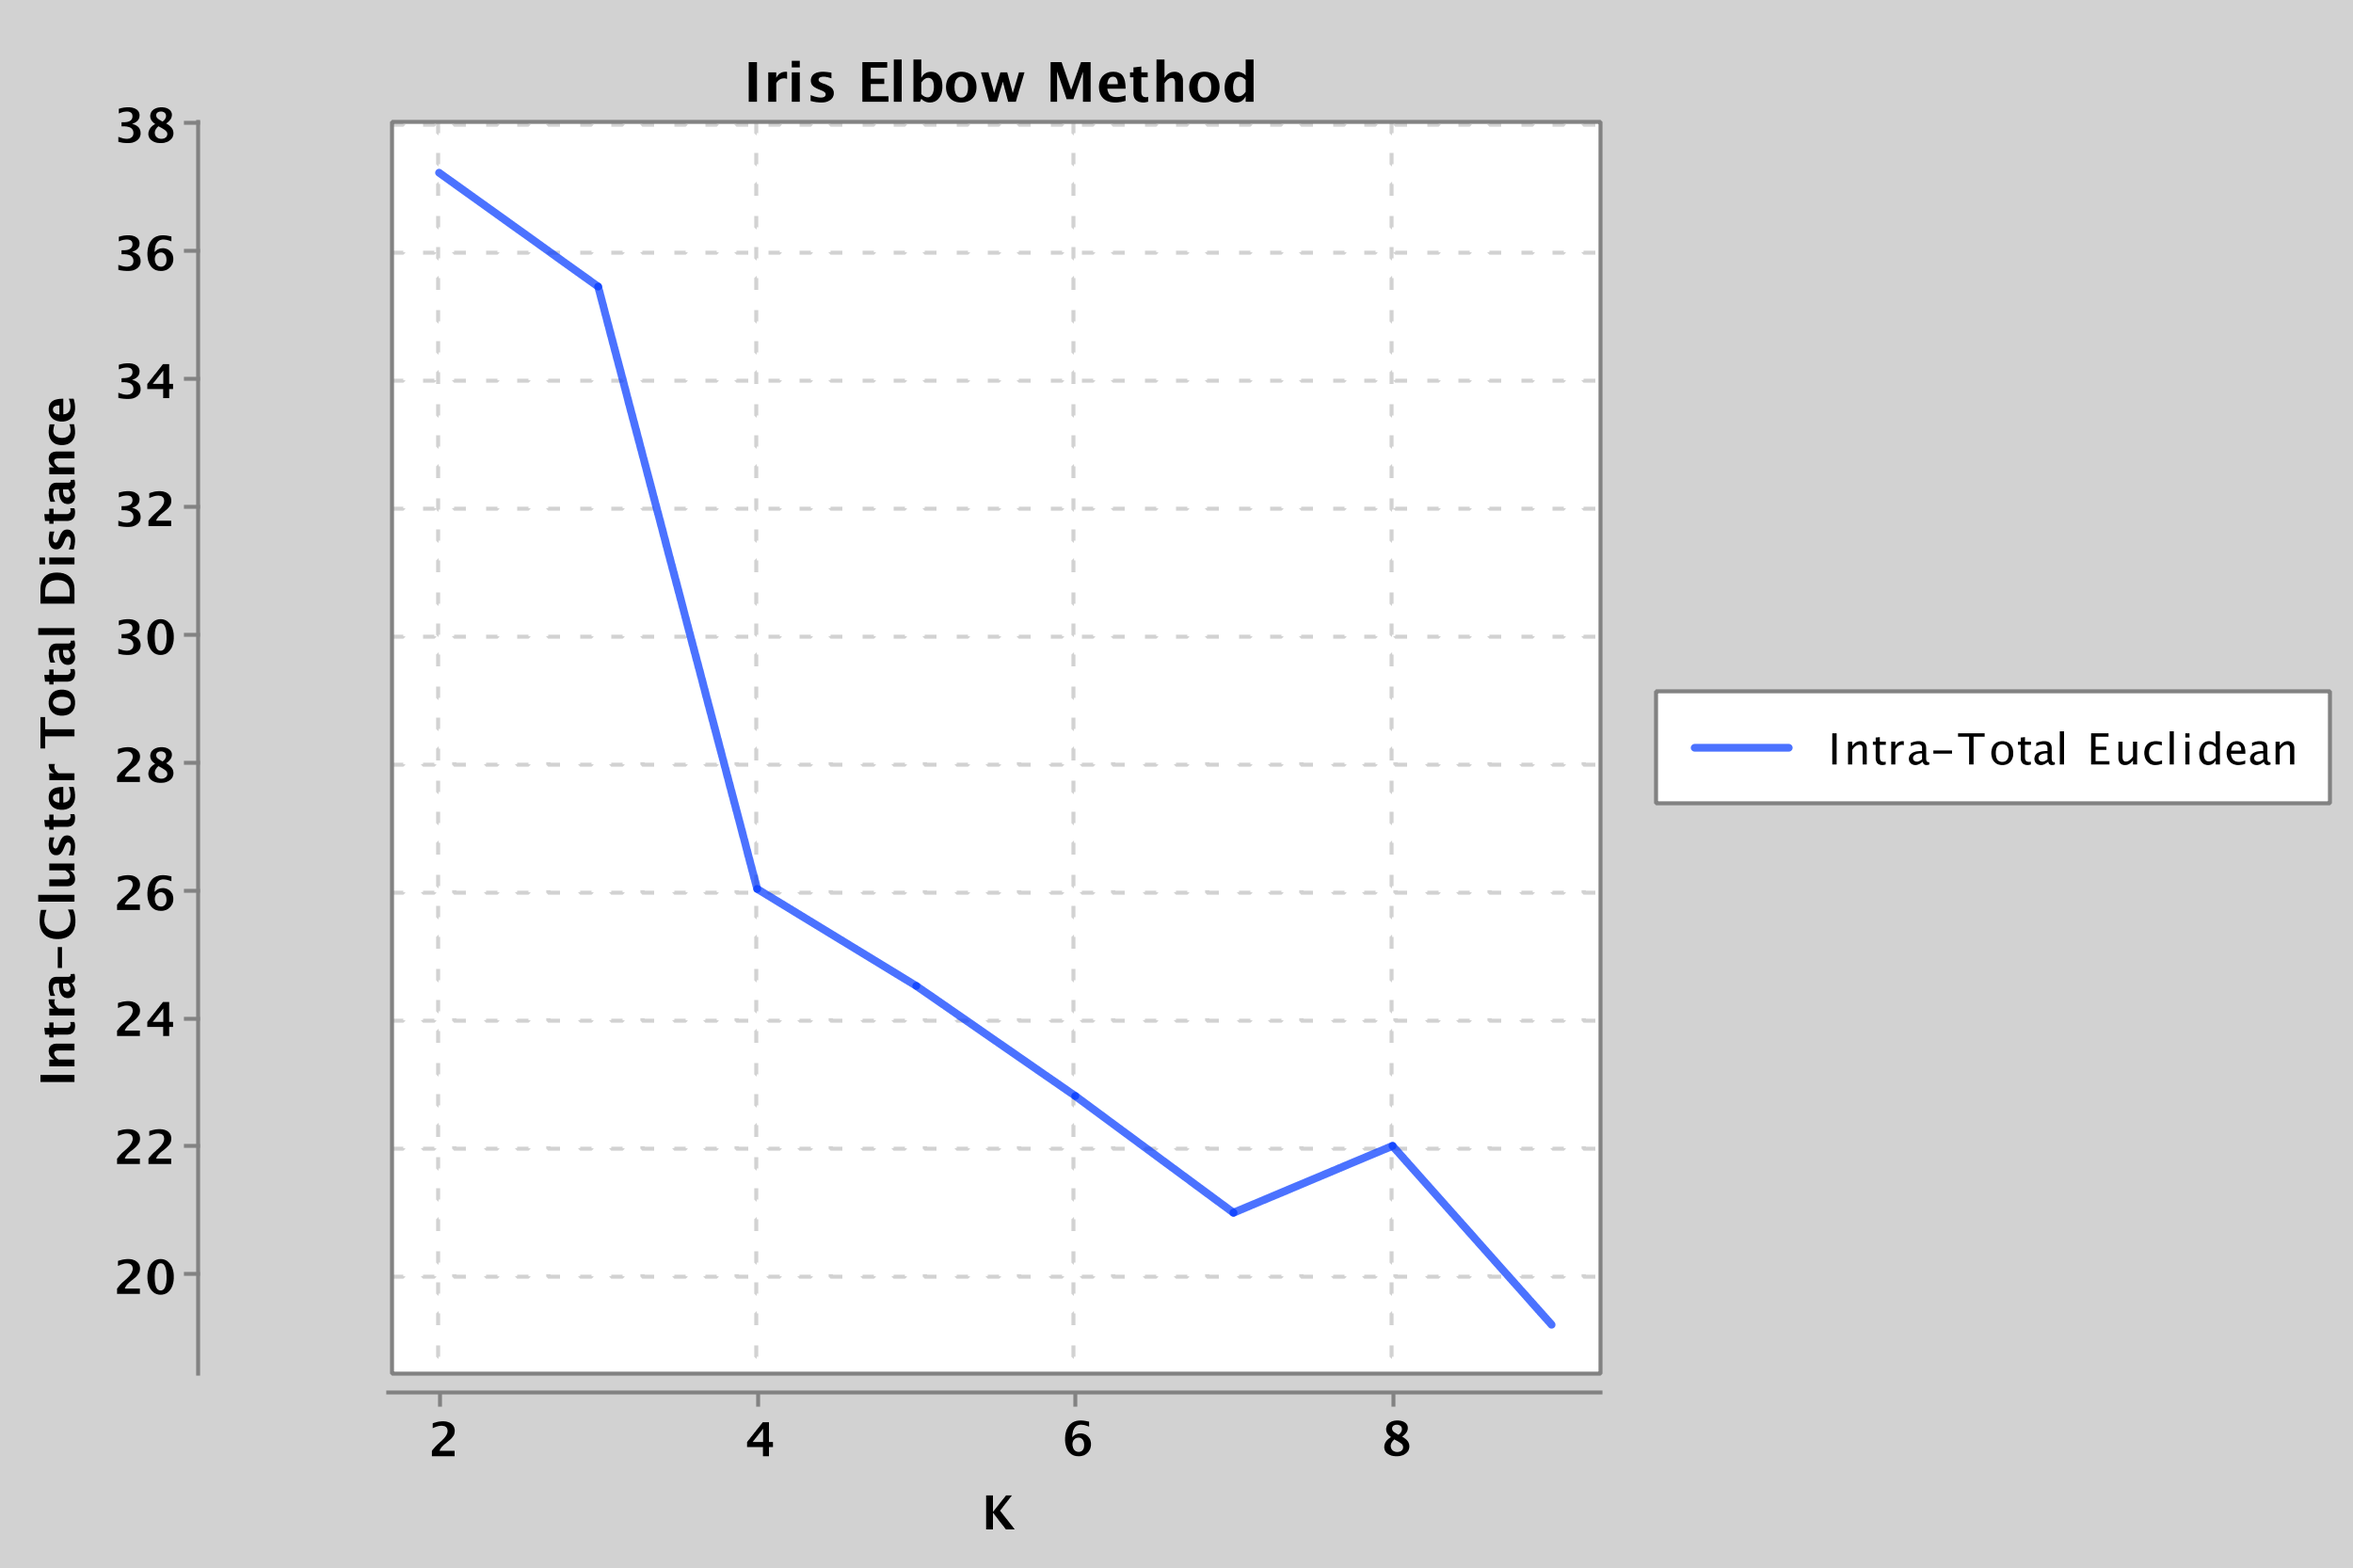
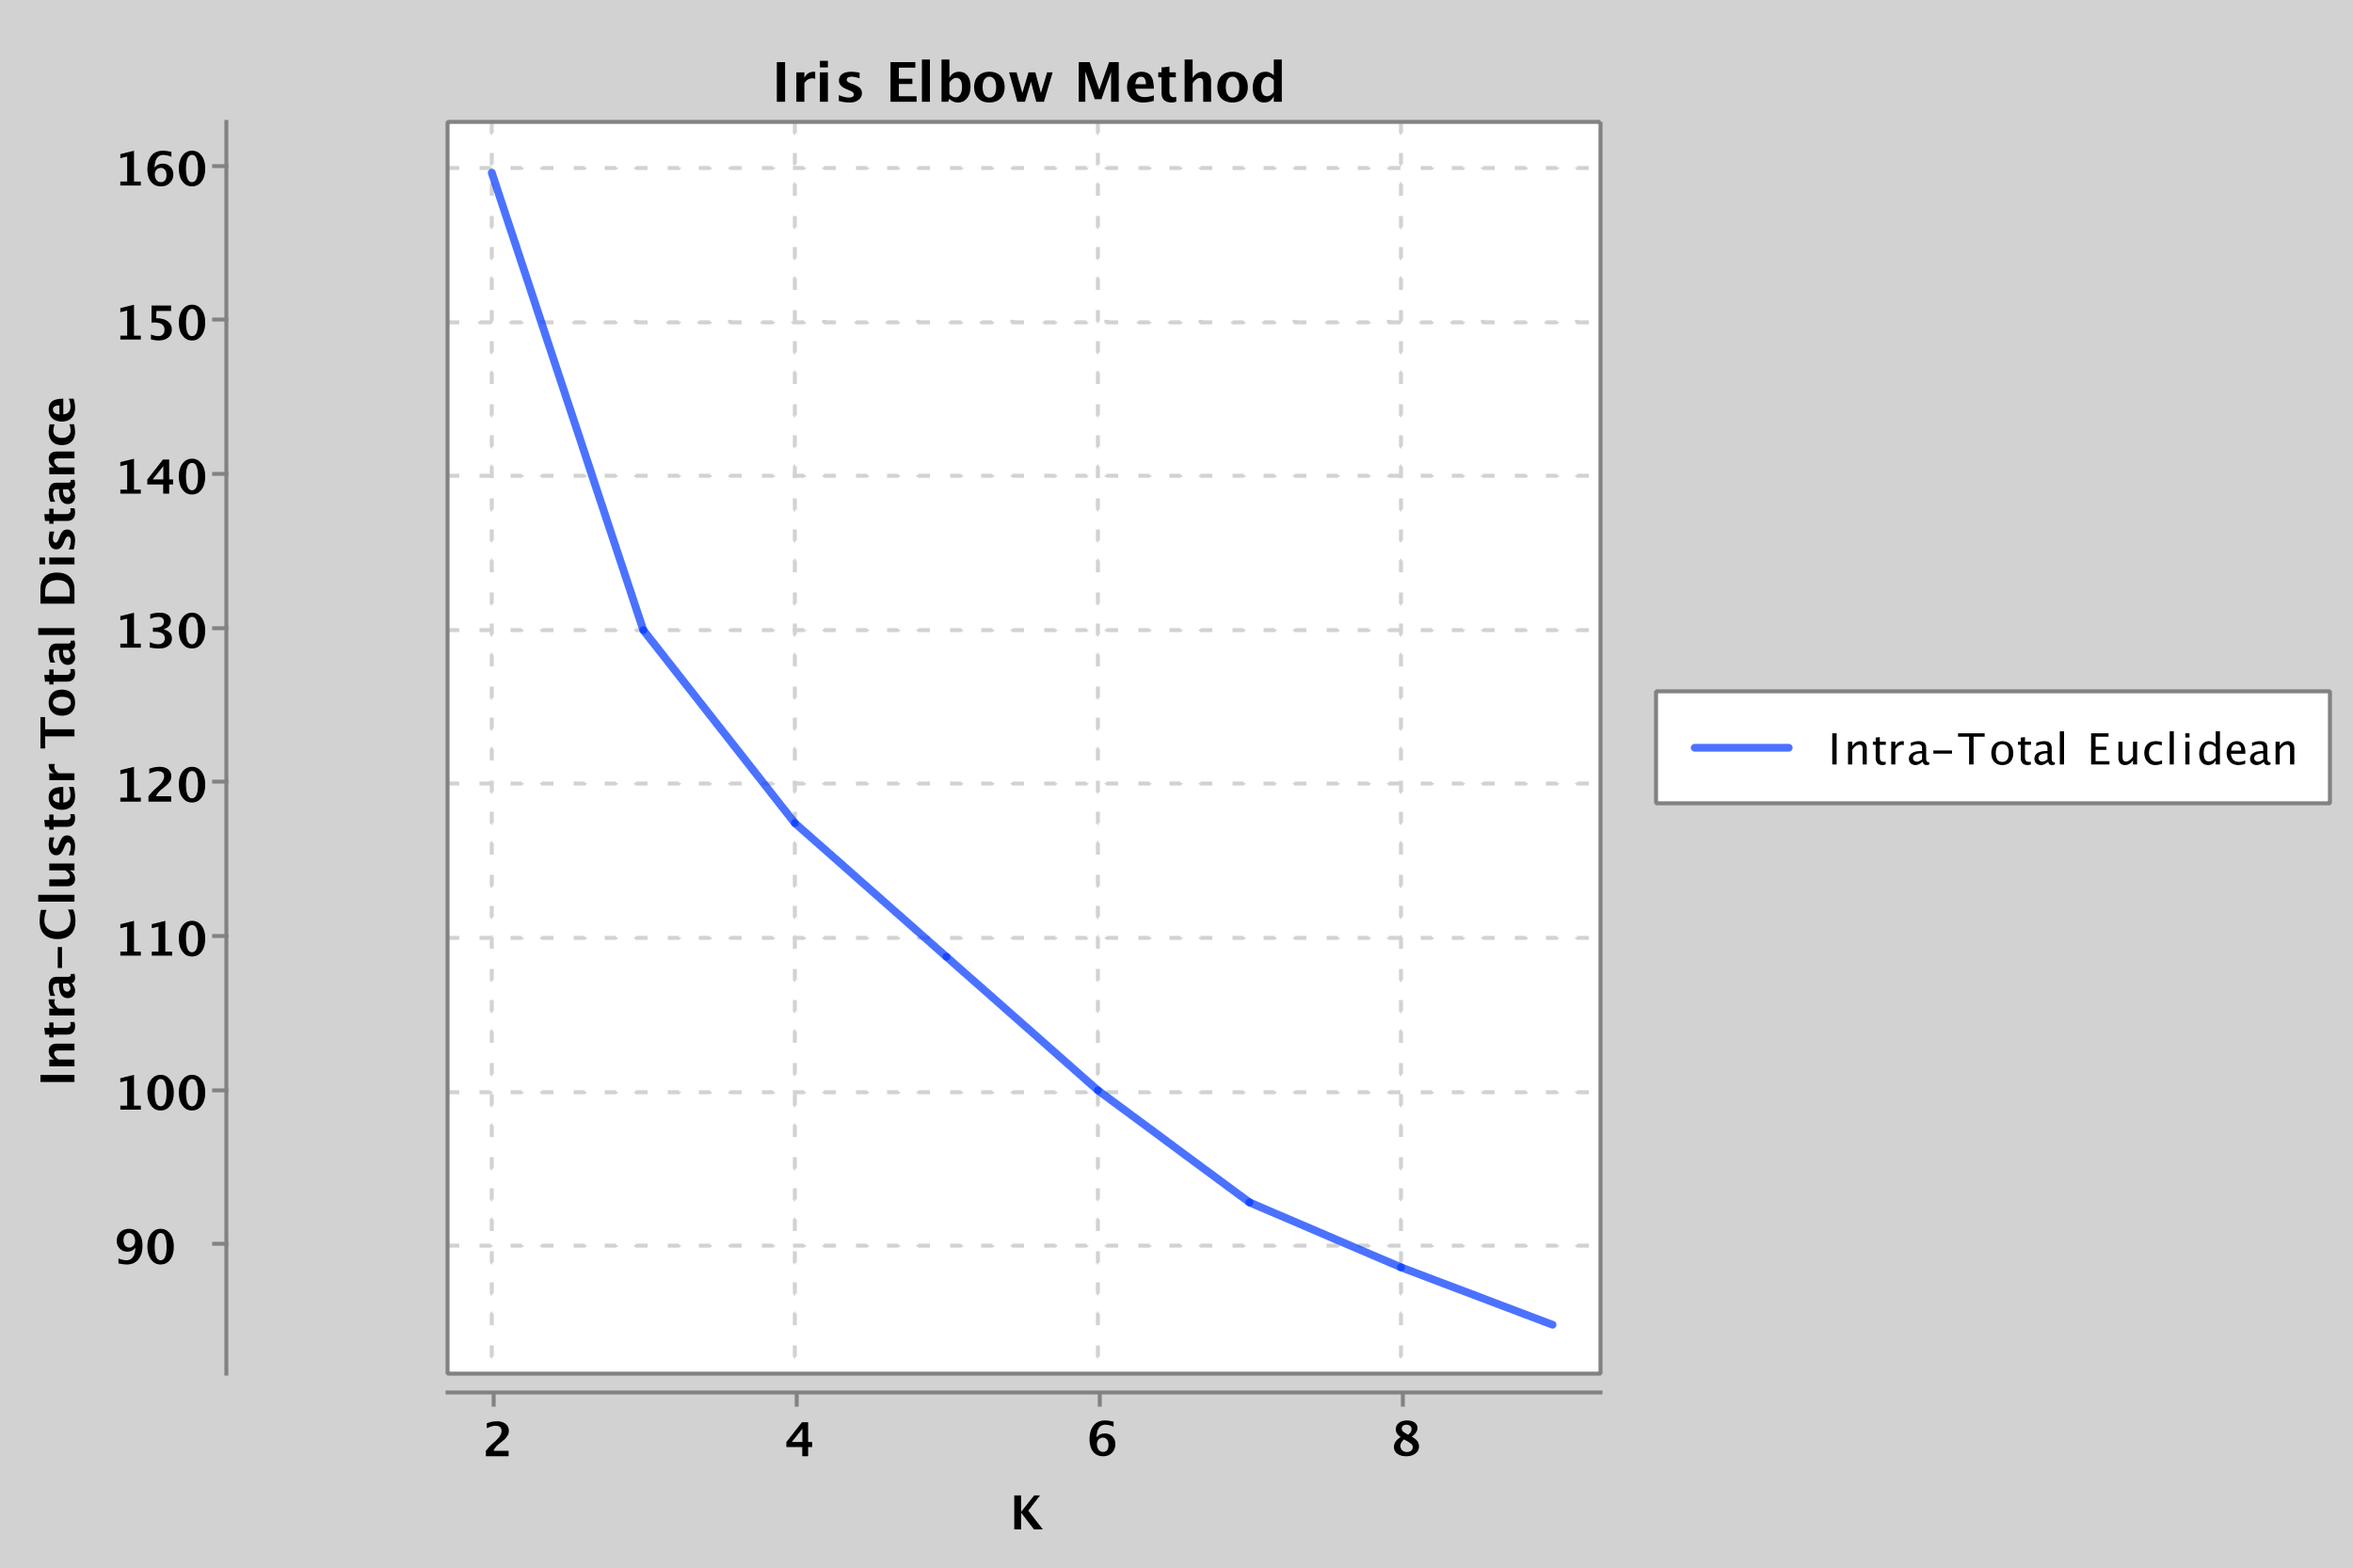
Gaps statistics and silhouette methods added

diff --git a/IrisExperiment.java b/IrisExperiment.java
@@ -1,4 +1,6 @@
 import java.util.Map;
+import java.util.Random;
+import java.util.PrimitiveIterator.OfDouble;
 import java.util.List;
 import java.util.ArrayList;
 import java.util.stream.Stream;
@@ -9,7 +11,7 @@ import java.util.HashMap;
 
 import data.Dataset;
 import data.Item;
-
+import data.DataGenerator;
 import clustering.Cluster;
 import clustering.KMeansClustering;
 
@@ -35,7 +37,19 @@ public class IrisExperiment {
         metadata.put(KMeansClustering.CLUSTER_NUMBER_KEY, 3);
         metadata.put(KMeansClustering.ITERATION_COUNT, 200);
         Cluster []clusters = kMeansClustering.fit(irisDataset, metadata);
+
+        printClusters(clusters);
         plotClusters(clusters);
+    }
+
+    private void printClusters(Cluster[] clusters) {
+        int clusterIndex = 1;
+        for (Cluster cluster : clusters) {
+            for (Item item : cluster.getItems()) {
+                System.out.println("Cluster: " + clusterIndex + " = " + item.getName());
+            }
+            clusterIndex++;
+        }
     }
 
     public void runElbowMethod() {
@@ -59,6 +73,131 @@ public class IrisExperiment {
             elbowMap.put(k, totalIntraValue);
         }
         plotElbows(elbowMap);
+    }
+
+    public void runSilhouetteMethod() {
+        Dataset irisDataset = load();
+        irisDataset.standardize();
+        irisDataset.shuffle();
+
+        KMeansClustering kMeansClustering = new KMeansClustering();
+        Map<String, Object> metadata = new HashMap<>();
+        metadata.put(KMeansClustering.ITERATION_COUNT, 200);
+
+        int K = 10;
+        double []avgSilhouettes = new double[K];
+
+        for (int k = 2; k < K; k++) {
+            metadata.put(KMeansClustering.CLUSTER_NUMBER_KEY, k);
+            Cluster []clusters = kMeansClustering.fit(irisDataset, metadata);
+            double totalSilhouette = 0.0;
+            for (Cluster cluster : clusters) {
+                double neerestDistance = Double.MAX_VALUE;
+                Cluster nearestCluster = null;
+                for (Cluster otherCluster : clusters) {
+                    if (cluster != otherCluster) {
+                        Double dist = cluster.getCentroid().distance(otherCluster.getCentroid());
+                        if (dist < neerestDistance) {
+                            nearestCluster = otherCluster;
+                            neerestDistance = dist;
+                        }
+                    }
+                }
+                double a = 0.0;
+                double b = 0.0;
+                for (Item item : cluster.getItems()) {
+                    for (Item otherItem : cluster.getItems()) {
+                        a += item.distance(otherItem);
+                    }
+                }
+                for (Item item : cluster.getItems()) {
+                    for (Item otherItem : nearestCluster.getItems()) {
+                        b += item.distance(otherItem);
+                    }
+                }
+                double silhouette = (b - a) / (Math.max(a, b));
+                totalSilhouette += silhouette;
+            }
+            avgSilhouettes[k] = totalSilhouette / irisDataset.size();
+        }
+        for (int k = 2; k < K; k++) {
+            System.out.println("k: " + k + " = " + avgSilhouettes[k]);
+        }
+    }
+
+    private void plotSilhouette(Map<Integer, List<Double>> silhouetteMap, List<Double> silhouetteAverages) {
+    }
+
+    public void runGapStatistics() {
+        Dataset irisDataset = load();
+        irisDataset.standardize();
+        irisDataset.shuffle();
+
+        KMeansClustering kMeansClustering = new KMeansClustering();
+        Map<String, Object> metadata = new HashMap<>();
+        metadata.put(KMeansClustering.ITERATION_COUNT, 200);
+
+        int K = 10;
+        int B = 10;
+        double[] wks = new double[K];
+        double[] wkbs = new double[K];
+        
+        double sk[] = new double[B];
+
+        for (int k = 1; k < K; k++) {
+            metadata.put(KMeansClustering.CLUSTER_NUMBER_KEY, k);
+            Cluster[] clusters = kMeansClustering.fit(irisDataset, metadata);
+            double wk = 0;
+            for (Cluster cluster : clusters) {
+                wk  += cluster.intraClusterDistance();
+            }
+            wks[k] += Math.log(wk);
+
+            double wkkB[] = new double[B];
+            for (int i = 0; i < B; i++) {
+                Dataset uniformRandomDataset = DataGenerator.generateUniformDataset(irisDataset);
+
+                double wkB = 0;
+                Cluster[] clustersB = kMeansClustering.fit(uniformRandomDataset, metadata);
+                for (Cluster cluster : clustersB) {
+                    wkB  += cluster.intraClusterDistance();
+                }
+                wkkB[i] = Math.log(wkB);
+            }
+            double sumWkkB = 0;
+            for (int i = 0; i < B; i++) {
+                sumWkkB += wkkB[i];
+            }
+            sumWkkB /= (double)B;
+            wkbs[k] = sumWkkB;
+
+            double summ = 0;
+            for (int i = 0; i < B; i++) {
+                summ += Math.pow(wkbs[k] - wkkB[i], 2);
+            }
+            sk[k] = Math.sqrt(summ / (double)B);
+        }
+        for (int k = 1; k < K; k++) {
+            sk[k] = sk[k] * Math.sqrt(1 + 1.0/B);
+        }
+
+        double []gaps = new double[K];
+        for (int k = 1; k < K - 1; k++) {
+            double gap = wkbs[k] - wks[k];
+            gaps[k] = gap;
+        }
+        int idealK = K;
+        for (int k = 1; k < K - 1; k++) {
+            if (gaps[k] >= gaps[k+1] - sk[k + 1]) {
+                idealK = k;
+                break;
+            }
+        }
+        System.out.println("GAP statistics, ideak K: " + idealK);
+
+        for (int k = 1; k < K; k++) {
+            System.out.println(gaps[k] + " " + sk[k]);
+        }
     }
 
     private Dataset load() {

diff --git a/data/Dataset.java b/data/Dataset.java
@@ -27,11 +27,11 @@ public class Dataset {
     
     public void shuffle() {
     	Collections.shuffle(items);
-    }
-
-    public void standardize() {
+	}
+	
+    public void normalize() {
     	if (items.isEmpty()) {
-    		throw new RuntimeException("No data to serialize");
+    		throw new RuntimeException("No data to normalize");
     	}
     	int featureCount = items.get(0).featureCount();
     	double featureMins[] = new double[featureCount];
@@ -54,10 +54,63 @@ public class Dataset {
     	for (Item item : items) {
 			for (int f = 0; f < featureCount; f++) {
 				double value = item.get(f);
-				double standardizedValue = 
+				double normalizedValue = 
 						(value - featureMins[f]) / (featureMaxes[f] - featureMins[f]);
+				item.set(f, normalizedValue);
+			}
+    	}
+	}
+	
+	// feature is zero based
+	public double mean(int feature) {
+    	if (items.isEmpty()) {
+    		throw new RuntimeException("No data to calculate mean for feature: " + feature);
+		}
+		if (feature < 0 || items.get(0).featureCount() < feature + 1) {
+    		throw new IndexOutOfBoundsException("Wrong index: " + feature);
+		}
+		double mean = 0;
+		for (Item item : items) {
+			mean += item.get(feature);
+		}
+		return mean / (double)items.size();
+	}
+
+	// feature is zero based
+	public double sd(int feature) {
+    	if (items.isEmpty()) {
+    		throw new RuntimeException("No data to calculate standard deviation for feature: " + feature);
+		}
+		if (feature < 0 || items.get(0).featureCount() < feature + 1) {
+    		throw new IndexOutOfBoundsException("Wrong index: " + feature);
+		}
+		double mean = mean(feature);
+		double total = 0.0;
+		for (Item item : items) {
+			total += Math.pow((item.get(feature) - mean), 2);
+		}
+		return Math.sqrt(total / items.size());
+	}
+
+    public void standardize() {
+    	if (items.isEmpty()) {
+    		throw new RuntimeException("No data to standardize");
+    	}
+		int featureCount = items.get(0).featureCount();
+
+    	for (int f = 0; f < featureCount; f++) {
+			double mean = mean(f);
+			double sd = sd(f);
+
+			for (Item item : items) {
+				double value = item.get(f);
+				double standardizedValue = (value - mean) / sd;
 				item.set(f, standardizedValue);
 			}
     	}
-    }
+	}
+	
+	public int size() {
+		return items.size();
+	}
 }

diff --git a/data/DataGenerator.java b/data/DataGenerator.java
@@ -1,0 +1,38 @@
+package data;
+
+import java.util.Random;
+
+public class DataGenerator {
+
+    public static Dataset generateUniformDataset(final Dataset dataset) {
+        Item mins = new Item();
+        Item maxes = new Item();
+        int featureCount = dataset.getItems().get(0).featureCount();
+        for (int f = 0; f < featureCount; f++) {
+            mins.add(Double.MAX_VALUE);
+            maxes.add(Double.MIN_VALUE);
+        }
+        // find minimum and maximum value of each feature
+        for (Item item : dataset.getItems()) {
+            for (int f = 0; f < featureCount; f++) {
+                if (item.get(f) > maxes.get(f)) {
+                    maxes.set(f, item.get(f));
+                }
+                if (item.get(f) < mins.get(f)) {
+                    mins.set(f, item.get(f));
+                }
+            }
+        }
+        Random random = new Random();
+        Dataset randomDataset = new Dataset();
+        for (int i = 0; i < dataset.getItems().size(); i++) {
+            Item item = new Item();
+            for (int f = 0; f < featureCount; f++) {
+                double rand = random.nextDouble() * (maxes.get(f) - mins.get(f)) + mins.get(f);
+                item.add(rand);
+            }
+            randomDataset.add(item);
+        }
+        return randomDataset;
+    }
+}

diff --git a/clustering/KMeansClustering.java b/clustering/KMeansClustering.java
@@ -58,8 +58,8 @@ public class KMeansClustering {
             for (Cluster cluster : clusters) {
                 cluster.calculateCentroid();
 
-                // do not remove in the last iteration
                 // to be able to show the assigned items to clusters
+                // do not remove in the last iteration
                 if (it < iterationCount - 1) {
                     cluster.clear();
                 }
@@ -67,5 +67,4 @@ public class KMeansClustering {
         }
         return clusters;
     }
-    
 }

diff --git a/clustering/Cluster.java b/clustering/Cluster.java
@@ -40,7 +40,7 @@ public class Cluster {
     }
 
     /**
-     * Calculates the total eucledian distance between dataset and centroid
+     * Calculates the total eucledian distance between cluster items and centroid
      */
     public double intraClusterDistance() {
         if (this.items.isEmpty() || centroid == null) {
@@ -51,6 +51,7 @@ public class Cluster {
             total += item.distance(centroid);
         }
         return total;
+        //return 2.0 * this.items.size() * total;
     }
 
     /**

diff --git a/Main.java b/Main.java
@@ -1,7 +1,9 @@
 public class Main {
 
     public static void main(String[] args) {
-        new IrisExperiment().runElbowMethod();
-        new IrisExperiment().runKMeansClustering();
+        //new IrisExperiment().runKMeansClustering();
+        //new IrisExperiment().runElbowMethod();
+        //new IrisExperiment().runGapStatistics();
+        new IrisExperiment().runSilhouetteMethod();
     }
 }
